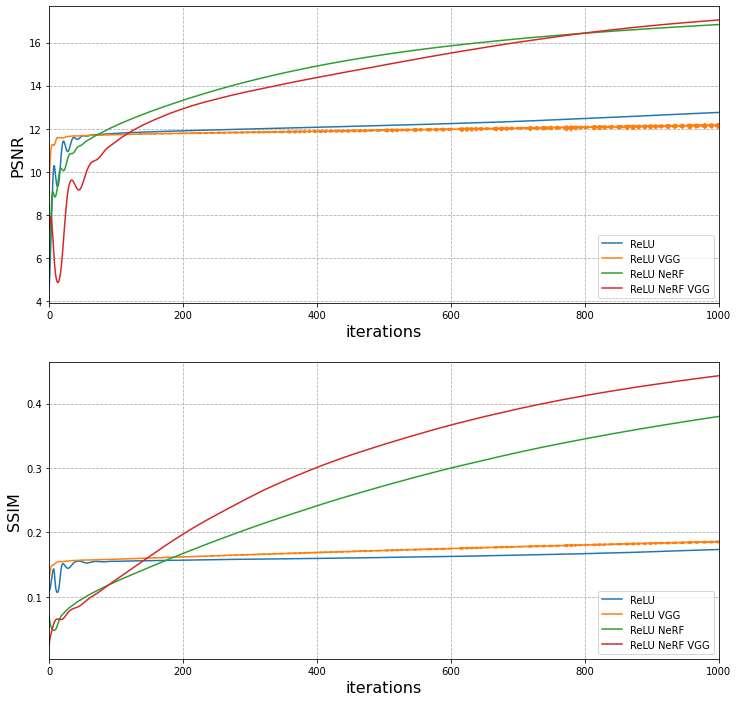
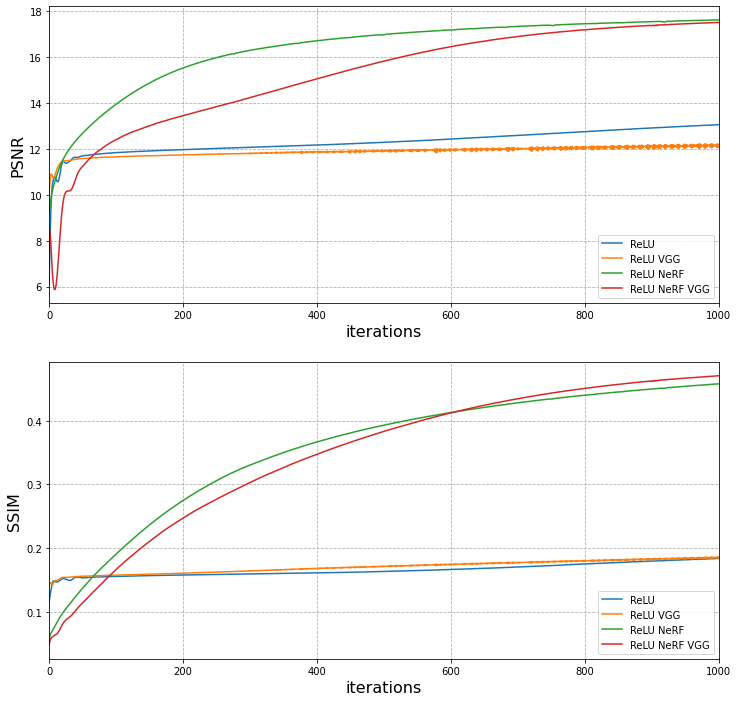
fix: wrong tests

diff --git a/results/supplements/relu_vgg_loss/div2k/X4/README.md b/results/supplements/relu_vgg_loss/div2k/X4/README.md
@@ -53,16 +53,16 @@ hidden features: 256
 total steps: 1000
 
 PSNR:
-	ReLU: 13.313879
-	ReLU VGG: 12.153226
-	ReLU NeRF: 17.017829
-	ReLU NeRF VGG: 17.402685
+	ReLU: 13.059957
+	ReLU VGG: 12.076688
+	ReLU NeRF: 17.620986
+	ReLU NeRF VGG: 17.513918
 
 SSIM:
-	ReLU: 0.190287
-	ReLU VGG: 0.187080
-	ReLU NeRF: 0.394854
-	ReLU NeRF VGG: 0.466999
+	ReLU: 0.183784
+	ReLU VGG: 0.186237
+	ReLU NeRF: 0.457968
+	ReLU NeRF VGG: 0.470763
 ```
 
 ```
